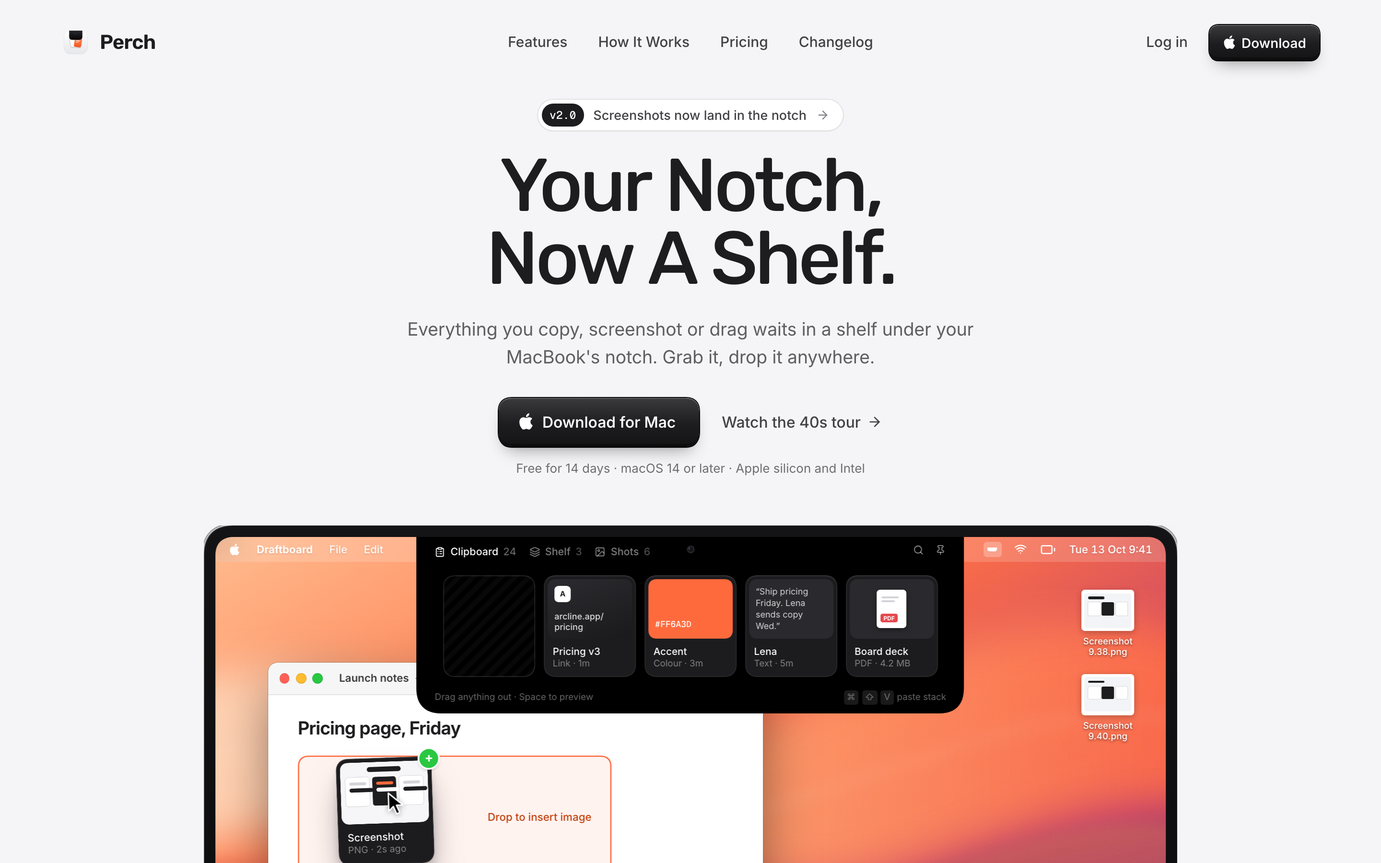
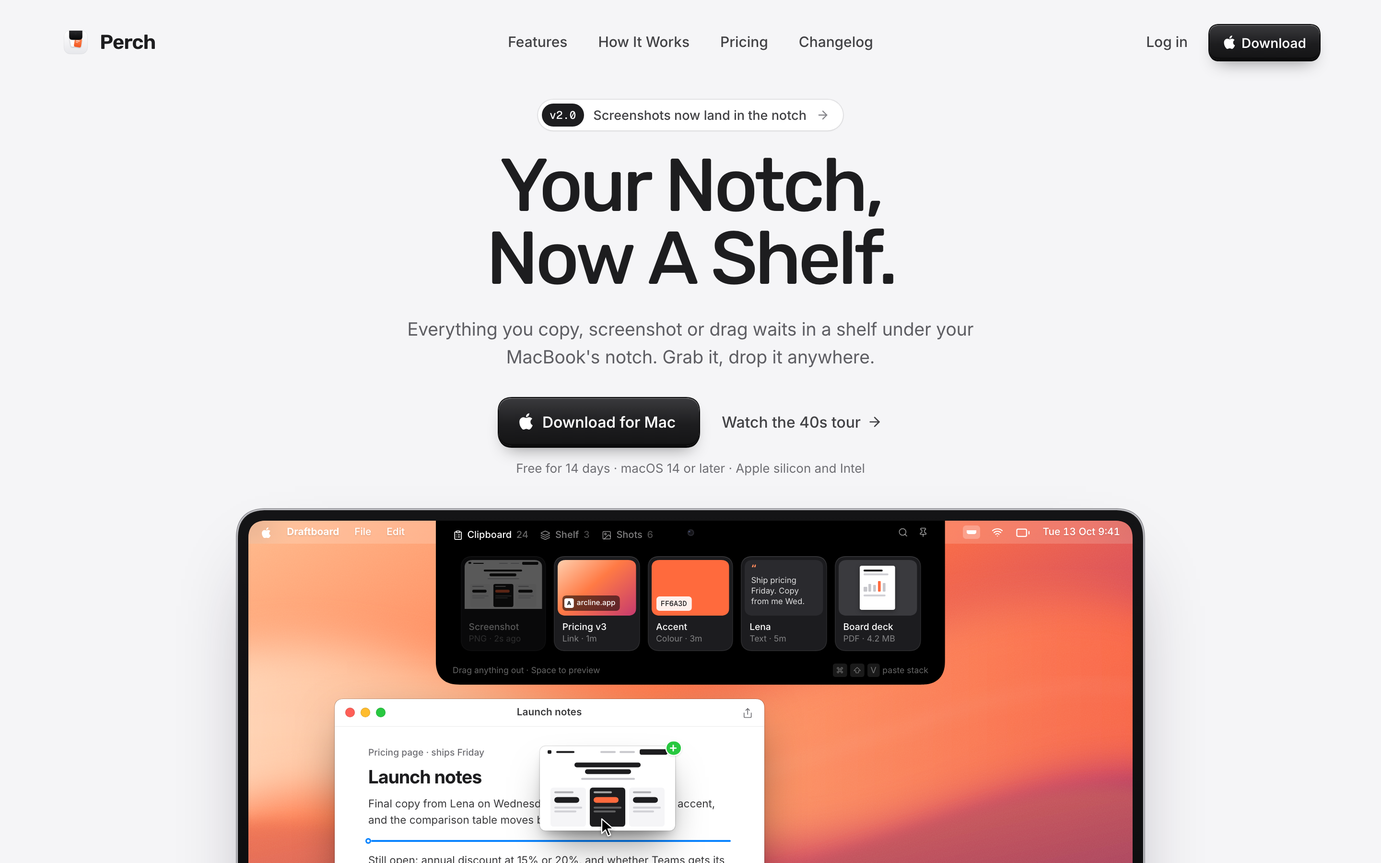
Perch round 2: native macOS drag (real drag image, insertion line, visible document)
Founder: 'the mouse drags sth box is stupidly designed... should be more polished'.
Recorded as a founder rule: interaction moments use native platform grammar, no
dashed drop boxes or placeholder copy. check.mjs 0 fail / 0 warn.

Changed region(s): [[0.125, 0.5911, 0.875, 1.0]]

diff --git a/work/perch/app/src/Mac.tsx b/work/perch/app/src/Mac.tsx
@@ -1,9 +1,10 @@
-// The hero object: one MacBook display, tilted back in 3D, with Perch living in the notch.
-// Story in one moment: the shelf grows out of the notch (Dynamic Island spring), five clips arrive, the screenshot lifts
-// out and is dragged into the open document, which lights its drop zone. Sample content; Draftboard is fictional.
+// The hero object: one MacBook display, straight-on, with Perch living in the notch.
+// One moment, drawn the way macOS draws it: the shelf springs out of the notch, the screenshot's card dims as its
+// translucent drag image lifts out, the cursor carries it into the document, and a system-blue insertion line opens
+// between two paragraphs. Then it drops in, and the loop restarts. Sample content; Draftboard is fictional.
 import { useEffect, useState } from 'react'
 import { AnimatePresence, motion, useReducedMotion } from 'motion/react'
-import { Battery, ClipboardList, Image, Layers, Pin, Search, Wifi } from 'lucide-react'
+import { Battery, ClipboardList, Image, Layers, Pin, Search, Share, Wifi } from 'lucide-react'
 import { siApple } from 'simple-icons'
 import Wallpaper from './Wallpaper'
 import { ease } from './motion'
@@ -11,45 +12,62 @@ import { ease } from './motion'
 const W = 1152, SHELF = 664, CARD = 112, GAP = 10
 const shelfX = (W - SHELF) / 2
 const cardX = (i: number) => (SHELF - (5 * CARD + 4 * GAP)) / 2 + i * (CARD + GAP)
-type Phase = 'closed' | 'open' | 'lift' | 'drag' | 'hover'
+const WIN = { x: 112, y: 232, w: 560 }
+type Phase = 'closed' | 'open' | 'lift' | 'drag' | 'hover' | 'drop'
 
 function Apple({ s = 14 }: { s?: number }) { return <svg viewBox="0 0 24 24" width={s} height={s} aria-hidden><path d={siApple.path} fill="currentColor" /></svg> }
 
-/* macOS arrow cursor: black body, white outline */
+/* macOS arrow cursor */
 function Cursor() {
-  return <svg width="22" height="30" viewBox="0 0 22 30" aria-hidden className="drop-shadow-[0_2px_3px_rgba(0,0,0,0.35)]"><path d="M2 2 L2 23 L7.4 17.8 L11 26.6 L14.6 25 L11 16.4 L18.6 16.4 Z" fill="#000" stroke="#fff" strokeWidth="1.6" strokeLinejoin="round" /></svg>
+  return <svg width="20" height="28" viewBox="0 0 22 30" aria-hidden className="drop-shadow-[0_1.5px_2px_rgba(0,0,0,0.35)]"><path d="M2 2 L2 23 L7.4 17.8 L11 26.6 L14.6 25 L11 16.4 L18.6 16.4 Z" fill="#000" stroke="#fff" strokeWidth="1.6" strokeLinejoin="round" /></svg>
+}
+
+/* the screenshot itself, drawn once at 176x110 and scaled wherever it appears (shelf card, drag image, inserted image) */
+function Shot() {
+  return (
+    <div className="relative h-[110px] w-[176px] overflow-hidden bg-white">
+      <div className="flex h-[14px] items-center gap-1.5 px-2.5"><span className="size-[5px] rounded-[2px] bg-[#1d1d1f]" /><span className="h-[3px] w-6 rounded-full bg-[#1d1d1f]" /><span className="ml-auto h-[3px] w-5 rounded-full bg-[#c7c7cc]" /><span className="h-[3px] w-5 rounded-full bg-[#c7c7cc]" /><span className="h-[7px] w-9 rounded-[3px] bg-[#1d1d1f]" /></div>
+      <div className="mt-[7px] flex flex-col items-center gap-[3px]"><span className="h-[6px] w-[86px] rounded-full bg-[#1d1d1f]" /><span className="h-[6px] w-[60px] rounded-full bg-[#1d1d1f]" /><span className="mt-[2px] h-[3px] w-[70px] rounded-full bg-[#c7c7cc]" /></div>
+      <div className="mt-[9px] grid grid-cols-3 gap-[5px] px-[14px]">
+        {[0, 1, 2].map((k) => (
+          <div key={k} className={`h-[52px] rounded-[5px] p-[5px] ${k === 1 ? 'bg-[#1d1d1f]' : 'bg-[#f5f5f7]'}`}>
+            <span className={`block h-[3px] w-6 rounded-full ${k === 1 ? 'bg-white/60' : 'bg-[#aeaeb2]'}`} />
+            <span className={`mt-[5px] block h-[7px] w-8 rounded-full ${k === 1 ? 'bg-[#ff6a3d]' : 'bg-[#1d1d1f]'}`} />
+            <span className={`mt-[6px] block h-[2px] w-9 rounded-full ${k === 1 ? 'bg-white/30' : 'bg-[#d1d1d6]'}`} /><span className={`mt-[3px] block h-[2px] w-7 rounded-full ${k === 1 ? 'bg-white/30' : 'bg-[#d1d1d6]'}`} />
+          </div>
+        ))}
+      </div>
+    </div>
+  )
 }
 
 function Thumb({ i }: { i: number }) {
-  if (i === 0) return ( // screenshot: a tiny pricing page
-    <div className="relative size-full overflow-hidden bg-[#f6f6f8] p-1.5">
-      <div className="mx-auto h-[5px] w-10 rounded-full bg-[#1d1d1f]" />
-      <div className="mt-1.5 grid grid-cols-3 gap-1">{[0, 1, 2].map((k) => <div key={k} className={`h-[34px] rounded-[4px] ${k === 1 ? 'bg-[#1d1d1f]' : 'bg-white shadow-[0_0_0_0.5px_rgba(0,0,0,0.12)]'}`}><div className={`mx-1 mt-1.5 h-[3px] w-5 rounded-full ${k === 1 ? 'bg-[#ff6a3d]' : 'bg-[#d4d4d8]'}`} /><div className={`mx-1 mt-1 h-[5px] w-7 rounded-full ${k === 1 ? 'bg-white' : 'bg-[#1d1d1f]'}`} /></div>)}</div>
+  if (i === 0) return <div className="origin-top-left" style={{ zoom: 102 / 176 }}><Shot /></div>
+  if (i === 1) return ( // link with its preview image
+    <div className="relative size-full bg-[linear-gradient(140deg,#ffcfae_0%,#ff7a45_45%,#c63a6e_100%)]">
+      <span className="absolute bottom-1.5 left-1.5 flex items-center gap-1 rounded-[6px] bg-black/55 py-[3px] pl-[3px] pr-1.5 text-[9.5px] font-[500] text-white backdrop-blur"><span className="grid size-3 place-items-center rounded-[3px] bg-white text-[7px] font-[800] text-[#1d1d1f]">A</span>arcline.app</span>
     </div>
   )
-  if (i === 1) return ( // link
-    <div className="flex size-full flex-col justify-between bg-[linear-gradient(160deg,#2c2c30,#1a1a1d)] p-2">
-      <span className="grid size-5 place-items-center rounded-[6px] bg-white text-[9px] font-[700] text-[#1d1d1f]">A</span>
-      <span className="text-[10.5px] font-[500] leading-[13px] text-white/85">arcline.app/<br />pricing</span>
-    </div>
-  )
-  if (i === 2) return <div className="flex size-full items-end bg-[#ff6a3d] p-2"><span className="font-mono text-[10.5px] font-[500] text-white">#FF6A3D</span></div>
-  if (i === 3) return <div className="size-full bg-[#2a2a2e] p-2 text-[10.5px] leading-[14px] text-white/80">“Ship pricing Friday. Lena sends copy Wed.”</div>
-  return ( // file
-    <div className="grid size-full place-items-center bg-[#2a2a2e]">
-      <span className="relative h-[46px] w-[36px] rounded-[5px] bg-white shadow-[0_2px_6px_rgba(0,0,0,0.35)]"><span className="absolute bottom-1.5 left-1 rounded-[3px] bg-[#e5484d] px-1 text-[7px] font-[700] text-white">PDF</span><span className="absolute left-1.5 top-2 h-[2px] w-5 rounded-full bg-[#d4d4d8]" /><span className="absolute left-1.5 top-[13px] h-[2px] w-4 rounded-full bg-[#d4d4d8]" /></span>
+  if (i === 2) return <div className="relative size-full bg-[#ff6a3d]"><span className="absolute bottom-1.5 left-1.5 rounded-[5px] bg-white/90 px-1.5 py-[2px] font-mono text-[9.5px] font-[500] text-[#1d1d1f]">FF6A3D</span></div>
+  if (i === 3) return <div className="size-full bg-[#2a2a2e] px-2 py-1.5"><span className="font-display block text-[18px] leading-[14px] text-[#ff8a5c]">“</span><span className="block text-[10.5px] leading-[13.5px] text-white/85">Ship pricing Friday. Copy from me Wed.</span></div>
+  return ( // pdf first page
+    <div className="grid size-full place-items-center bg-[#3a3a3e]">
+      <span className="relative block h-[58px] w-[46px] rounded-[3px] bg-white p-[5px] shadow-[0_2px_6px_rgba(0,0,0,0.35)]">
+        <span className="block h-[3px] w-6 rounded-full bg-[#1d1d1f]" /><span className="mt-[3px] block h-[2px] w-8 rounded-full bg-[#d1d1d6]" />
+        <span className="mt-[5px] flex h-[16px] items-end gap-[2px]">{[6, 10, 8, 14, 11].map((h, k) => <span key={k} className={`w-[4px] rounded-[1px] ${k === 3 ? 'bg-[#ff6a3d]' : 'bg-[#c7c7cc]'}`} style={{ height: h }} />)}</span>
+        <span className="mt-[4px] block h-[2px] w-7 rounded-full bg-[#d1d1d6]" />
+      </span>
     </div>
   )
 }
 const META = [['Screenshot', 'PNG · 2s ago'], ['Pricing v3', 'Link · 1m'], ['Accent', 'Colour · 3m'], ['Lena', 'Text · 5m'], ['Board deck', 'PDF · 4.2 MB']]
 
-function Card({ i, ghost }: { i: number; ghost?: boolean }) {
-  if (ghost) return <div className="h-[124px] w-[112px] rounded-[16px] shadow-[inset_0_0_0_1px_rgba(255,255,255,0.14)] [background:repeating-linear-gradient(135deg,rgba(255,255,255,0.03)_0_6px,transparent_6px_12px)]" />
+function Card({ i, dim }: { i: number; dim?: boolean }) {
   return (
-    <div className="h-[124px] w-[112px] rounded-[16px] bg-[#1c1c1f] p-[5px] shadow-[inset_0_0_0_1px_rgba(255,255,255,0.07),inset_0_1px_0_rgba(255,255,255,0.08)]">
+    <motion.div animate={{ opacity: dim ? 0.35 : 1 }} transition={{ duration: 0.25 }} className="h-[124px] w-[112px] rounded-[16px] bg-[#1c1c1f] p-[5px] shadow-[inset_0_0_0_1px_rgba(255,255,255,0.07),inset_0_1px_0_rgba(255,255,255,0.08)]">
       <div className="h-[72px] overflow-hidden rounded-[11px]"><Thumb i={i} /></div>
       <div className="px-1.5 pt-2"><div className="truncate text-[12px] font-[500] leading-[15px] text-white">{META[i][0]}</div><div className="truncate text-[11px] leading-[14px] text-white/45">{META[i][1]}</div></div>
-    </div>
+    </motion.div>
   )
 }
 
@@ -58,103 +76,112 @@ export default function Mac({ at }: { at: number }) {
   const [phase, setPhase] = useState<Phase>(still ? 'hover' : 'closed')
   useEffect(() => {
     if (still) return
-    const steps: [Phase, number][] = [['open', at + 0.9], ['lift', at + 2.5], ['drag', at + 2.85], ['hover', at + 3.75]]
-    const ids = steps.map(([p, t]) => window.setTimeout(() => setPhase(p), t * 1000))
+    const ids: number[] = []
+    const run = (t0: number, first: boolean) => {
+      const steps: [Phase, number][] = [...(first ? [['open', t0 + 0.9] as [Phase, number]] : []), ['lift', t0 + 2.5], ['drag', t0 + 2.8], ['hover', t0 + 3.7], ['drop', t0 + 5.6]]
+      ids.push(...steps.map(([p, t]) => window.setTimeout(() => setPhase(p), t * 1000)))
+      ids.push(window.setTimeout(() => { setPhase('open'); run(-1.6, false) }, (t0 + 8.4) * 1000))
+    }
+    run(at, true)
     return () => ids.forEach(clearTimeout)
   }, [at, still])
   const open = phase !== 'closed'
-  const lifted = phase === 'lift' || phase === 'drag' || phase === 'hover'
-  const cardHome = { x: shelfX + cardX(0), y: 46 }
-  const dropAt = { x: 150, y: 270 }
+  const carrying = phase === 'lift' || phase === 'drag' || phase === 'hover'
+  const home = { x: shelfX + cardX(0) + 5, y: 51 }
+  const over = { x: WIN.x + 268, y: WIN.y + 62 }
 
   return (
-    <div className="relative" style={{ perspective: 2400, perspectiveOrigin: '50% 0%' }}>
-      <motion.div style={{ transformOrigin: '50% 0%', transformStyle: 'preserve-3d' }}
-        initial={still ? false : { rotateX: 14, y: 90, opacity: 0 }} animate={{ rotateX: 0, y: 0, opacity: 1 }}
-        transition={{ rotateX: { delay: at, duration: 1.6, ease: ease.reveal }, y: { delay: at, duration: 1.6, ease: ease.reveal }, opacity: { delay: at, duration: 0.6 } }}>
-        {/* lid: space-black bezel, aluminium rim, one soft floor shadow */}
-        <div className="relative w-[1180px] rounded-[38px] bg-[linear-gradient(180deg,#141416,#0a0a0b)] p-[14px] shadow-[0_0_0_1.5px_#c3c3c8,0_0_0_2.5px_#8e8e93,inset_0_0_0_1px_rgba(255,255,255,0.06),0_50px_100px_-40px_rgba(30,20,40,0.45)]">
-          <div className="relative h-[740px] overflow-hidden rounded-[24px] bg-black">
-            <Wallpaper />
+    <motion.div initial={still ? false : { rotateX: 14, y: 80, opacity: 0 }} animate={{ rotateX: 0, y: 0, opacity: 1 }}
+      style={{ transformOrigin: '50% 0%', transformPerspective: 2400 }}
+      transition={{ rotateX: { delay: at, duration: 1.5, ease: ease.reveal }, y: { delay: at, duration: 1.5, ease: ease.reveal }, opacity: { delay: at, duration: 0.6 } }}>
+      {/* lid: space-black bezel, aluminium rim, one soft floor shadow */}
+      <div className="relative w-[1180px] rounded-[38px] bg-[linear-gradient(180deg,#141416,#0a0a0b)] p-[14px] shadow-[0_0_0_1.5px_#c3c3c8,0_0_0_2.5px_#8e8e93,inset_0_0_0_1px_rgba(255,255,255,0.06),0_50px_100px_-40px_rgba(30,20,40,0.45)]">
+        <div className="relative h-[740px] overflow-hidden rounded-[24px] bg-black">
+          <Wallpaper />
 
-            {/* menu bar */}
-            <div className="absolute inset-x-0 top-0 flex h-[30px] items-center gap-5 bg-white/[0.16] px-4 text-[13px] font-[500] text-white backdrop-blur-xl" style={{ textShadow: '0 1px 2px rgba(0,0,0,0.12)' }}>
-              <Apple /><span className="font-[650]">Draftboard</span>
-              {['File', 'Edit'].map((m) => <span key={m} className="text-white/95">{m}</span>)}
-              <span className="ml-auto flex items-center gap-4">
-                <span className="grid h-[18px] w-[22px] place-items-center rounded-[5px] bg-white/25"><span className="h-[5px] w-[12px] rounded-b-[3px] bg-white" /></span>
-                <Wifi size={15} strokeWidth={2.2} /><Battery size={19} strokeWidth={1.8} /><span className="tnum">Tue 13 Oct  9:41</span>
-              </span>
+          {/* menu bar */}
+          <div className="absolute inset-x-0 top-0 flex h-[30px] items-center gap-5 bg-white/[0.16] px-4 text-[13px] font-[500] text-white backdrop-blur-xl" style={{ textShadow: '0 1px 2px rgba(0,0,0,0.12)' }}>
+            <Apple /><span className="font-[650]">Draftboard</span><span>File</span><span>Edit</span>
+            <span className="ml-auto flex items-center gap-4">
+              <span className="grid h-[18px] w-[22px] place-items-center rounded-[5px] bg-white/25"><span className="h-[5px] w-[12px] rounded-b-[3px] bg-white" /></span>
+              <Wifi size={15} strokeWidth={2.2} /><Battery size={19} strokeWidth={1.8} /><span className="tnum">Tue 13 Oct  9:41</span>
+            </span>
+          </div>
+
+          {/* the document: fully visible under the shelf */}
+          <div className="absolute overflow-hidden rounded-[12px] bg-white shadow-[0_0_0_0.5px_rgba(0,0,0,0.28),0_24px_60px_-16px_rgba(0,0,0,0.5),0_8px_16px_-8px_rgba(0,0,0,0.2)]" style={{ left: WIN.x, top: WIN.y, width: WIN.w, height: 440 }}>
+            <div className="relative flex h-9 items-center px-3.5 shadow-[inset_0_-1px_0_rgba(0,0,0,0.06)]">
+              <span className="flex gap-2">{['#ff5f57', '#febc2e', '#28c840'].map((c) => <span key={c} className="size-3 rounded-full shadow-[inset_0_0_0_0.5px_rgba(0,0,0,0.18)]" style={{ background: c }} />)}</span>
+              <span className="absolute left-1/2 -translate-x-1/2 text-[13px] font-[600] text-[#3a3a3c]">Launch notes</span>
+              <Share size={14} strokeWidth={1.8} className="ml-auto text-[#6e6e73]" />
             </div>
-
-            {/* desktop files on the right edge (what Perch replaces) */}
-            <div className="absolute right-7 top-[64px] flex flex-col items-center gap-5">
-              {['Screenshot 9.38', 'Screenshot 9.40'].map((n) => (
-                <div key={n} className="flex w-[84px] flex-col items-center gap-1.5">
-                  <div className="h-[50px] w-[64px] rounded-[5px] bg-white p-1 shadow-[0_2px_8px_rgba(0,0,0,0.25)]"><div className="size-full rounded-[3px] bg-[#f3f4f7] p-1"><div className="h-[3px] w-5 rounded-full bg-[#1d1d1f]" /><div className="mt-1 grid grid-cols-3 gap-[2px]"><div className="h-4 rounded-[2px] bg-white shadow-[0_0_0_0.5px_rgba(0,0,0,0.15)]" /><div className="h-4 rounded-[2px] bg-[#1d1d1f]" /><div className="h-4 rounded-[2px] bg-white shadow-[0_0_0_0.5px_rgba(0,0,0,0.15)]" /></div></div></div>
-                  <span className="rounded-[4px] px-1 text-center text-[11px] font-[500] leading-[13px] text-white" style={{ textShadow: '0 1px 3px rgba(0,0,0,0.5)' }}>{n}.png</span>
-                </div>
-              ))}
-            </div>
-
-            {/* the document window: drop target */}
-            <div className="absolute left-[64px] top-[152px] h-[520px] w-[600px] overflow-hidden rounded-[14px] bg-white shadow-[0_0_0_0.5px_rgba(0,0,0,0.3),0_22px_70px_-10px_rgba(0,0,0,0.55)]">
-              <div className="flex h-[40px] items-center gap-2 border-b border-black/[0.07] bg-[#f6f6f7] px-3.5">
-                <span className="size-3 rounded-full bg-[#ff5f57] shadow-[inset_0_0_0_0.5px_rgba(0,0,0,0.15)]" /><span className="size-3 rounded-full bg-[#febc2e] shadow-[inset_0_0_0_0.5px_rgba(0,0,0,0.15)]" /><span className="size-3 rounded-full bg-[#28c840] shadow-[inset_0_0_0_0.5px_rgba(0,0,0,0.15)]" />
-                <span className="ml-3 text-[13px] font-[600] text-[#3a3a3c]">Launch notes</span><span className="text-[13px] text-[#6e6e73]">— Edited</span>
+            <div className="px-11 pt-[26px]">
+              <div className="text-[12px] font-[500] text-[#6e6e73]">Pricing page · ships Friday</div>
+              <div className="mt-1.5 text-[24px] font-[700] leading-[30px] tracking-[-0.02em] text-[#1d1d1f]">Launch notes</div>
+              <p className="mt-2.5 text-[14px] leading-[22px] text-[#3a3a3c]">Final copy from Lena on Wednesday. The hero uses the new accent, and the comparison table moves below the fold.</p>
+              {/* insertion point: a system-blue line opens where the image will land, then the image drops in */}
+              <div className="relative my-3.5">
+                <AnimatePresence initial={false} mode="popLayout">
+                  {phase === 'drop' ? (
+                    <motion.div key="img" initial={{ height: 0, opacity: 0 }} animate={{ height: 176, opacity: 1 }} transition={{ height: { type: 'spring', stiffness: 300, damping: 30 }, opacity: { duration: 0.2 } }} className="overflow-hidden">
+                      <div className="h-[176px] w-[282px] overflow-hidden rounded-[8px] shadow-[0_0_0_1px_rgba(0,0,0,0.08)]"><div className="origin-top-left" style={{ zoom: 282 / 176 }}><Shot /></div></div>
+                    </motion.div>
+                  ) : (
+                    <motion.div key="line" className="flex h-[2px] items-center" initial={{ opacity: 0 }} animate={{ opacity: phase === 'hover' ? 1 : 0, scaleX: phase === 'hover' ? 1 : 0.6 }} style={{ originX: 0 }} transition={{ duration: 0.2 }}>
+                      <span className="-ml-[4px] size-[8px] shrink-0 rounded-full bg-white shadow-[inset_0_0_0_2px_#0a84ff]" /><span className="h-[2px] flex-1 rounded-full bg-[#0a84ff]" />
+                    </motion.div>
+                  )}
+                </AnimatePresence>
               </div>
-              <div className="px-9 pt-6">
-                <div className="text-[22px] font-[650] tracking-[-0.02em] text-[#1d1d1f]">Pricing page, Friday</div>
-                <motion.div animate={{ backgroundColor: phase === 'hover' ? 'rgba(255,106,61,0.08)' : 'rgba(0,0,0,0.025)', boxShadow: phase === 'hover' ? 'inset 0 0 0 1.5px #ff6a3d' : 'inset 0 0 0 1px rgba(0,0,0,0.08)' }} transition={{ duration: 0.25 }}
-                  className="mt-4 flex h-[150px] w-[380px] items-center justify-end rounded-[14px] pr-6">
-                  <span className={`text-[13px] font-[500] ${phase === 'hover' ? 'text-[#c2410c]' : 'text-[#6e6e73]'}`}>{phase === 'hover' ? 'Drop to insert image' : 'Hero screenshot'}</span>
-                </motion.div>
-                <p className="mt-4 max-w-[420px] text-[14px] leading-[22px] text-[#48484a]">Final copy from Lena on Wednesday. Hero uses the new accent; the comparison table moves below the fold.</p>
-              </div>
+              <p className="text-[14px] leading-[22px] text-[#3a3a3c]">Still open: annual discount at 15% or 20%, and whether Teams gets its own column.</p>
             </div>
+          </div>
 
-            {/* the shelf: grows out of the notch */}
-            <motion.div className="absolute top-0 z-20 overflow-hidden bg-black" style={{ left: '50%', x: '-50%' }}
-              initial={false} animate={open ? { width: SHELF, height: 214, borderBottomLeftRadius: 32, borderBottomRightRadius: 32 } : { width: 196, height: 32, borderBottomLeftRadius: 13, borderBottomRightRadius: 13 }}
-              transition={{ type: 'spring', stiffness: 230, damping: 26, mass: 1 }}>
-              <span className="absolute left-1/2 top-[11px] size-[9px] -translate-x-1/2 rounded-full bg-[#141418] shadow-[inset_0_0_0_1.5px_#26262c]"><span className="absolute left-[2px] top-[2px] size-[2px] rounded-full bg-[#4b5a8a]" /></span>
-              <AnimatePresence>
-                {open && (
-                  <motion.div key="in" className="absolute inset-0" initial={{ opacity: 0, filter: 'blur(6px)' }} animate={{ opacity: 1, filter: 'blur(0px)' }} transition={{ delay: 0.18, duration: 0.4 }}>
-                    <div className="absolute left-[22px] top-[9px] flex items-center gap-4 text-[12.5px] font-[500]">
-                      <span className="flex items-center gap-1.5 text-white"><ClipboardList size={13} strokeWidth={2} />Clipboard <span className="text-white/40">24</span></span>
-                      <span className="flex items-center gap-1.5 text-white/50"><Layers size={13} strokeWidth={2} />Shelf <span className="text-white/30">3</span></span>
-                      <span className="flex items-center gap-1.5 text-white/50"><Image size={13} strokeWidth={2} />Shots <span className="text-white/30">6</span></span>
-                    </div>
-                    <div className="absolute right-[22px] top-[9px] flex items-center gap-3.5 text-white/55"><Search size={13} strokeWidth={2} /><Pin size={13} strokeWidth={2} /></div>
-                    {[0, 1, 2, 3, 4].map((i) => (
-                      <motion.div key={i} className="absolute top-[46px]" style={{ left: cardX(i) }} initial={{ opacity: 0, y: -14, scale: 0.92 }} animate={{ opacity: 1, y: 0, scale: 1 }} transition={{ delay: 0.28 + i * 0.06, type: 'spring', stiffness: 380, damping: 30 }}>
-                        <Card i={i} ghost={i === 0 && lifted} />
-                      </motion.div>
-                    ))}
-                    <div className="absolute inset-x-[22px] bottom-[11px] flex items-center justify-between text-[11px] text-white/40">
-                      <span>Drag anything out · Space to preview</span><span className="flex items-center gap-1"><kbd className="rounded-[4px] bg-white/10 px-1 font-sans">⌘</kbd><kbd className="rounded-[4px] bg-white/10 px-1 font-sans">⇧</kbd><kbd className="rounded-[4px] bg-white/10 px-1 font-sans">V</kbd>paste stack</span>
-                    </div>
-                  </motion.div>
-                )}
-              </AnimatePresence>
-            </motion.div>
-
-            {/* the dragged clip + cursor */}
+          {/* the shelf: grows out of the notch */}
+          <motion.div className="absolute top-0 z-20 overflow-hidden bg-black" style={{ left: '50%', x: '-50%' }}
+            initial={false} animate={open ? { width: SHELF, height: 214, borderBottomLeftRadius: 32, borderBottomRightRadius: 32 } : { width: 196, height: 32, borderBottomLeftRadius: 13, borderBottomRightRadius: 13 }}
+            transition={{ type: 'spring', stiffness: 230, damping: 26, mass: 1 }}>
+            <span className="absolute left-1/2 top-[11px] size-[9px] -translate-x-1/2 rounded-full bg-[#141418] shadow-[inset_0_0_0_1.5px_#26262c]"><span className="absolute left-[2px] top-[2px] size-[2px] rounded-full bg-[#4b5a8a]" /></span>
             <AnimatePresence>
-              {lifted && (
-                <motion.div key="drag" className="absolute z-30" initial={{ x: cardHome.x, y: cardHome.y, rotate: 0, scale: 1 }}
-                  animate={phase === 'lift' ? { x: cardHome.x + 4, y: cardHome.y + 18, rotate: -1, scale: 1.06 } : { x: dropAt.x, y: dropAt.y, rotate: -2, scale: 1.04 }}
-                  transition={phase === 'lift' ? { duration: 0.35, ease: ease.outQuint } : { duration: 0.9, ease: [0.45, 0, 0.2, 1] }}>
-                  <div className="shadow-[0_24px_40px_-12px_rgba(0,0,0,0.55),0_8px_14px_-6px_rgba(0,0,0,0.35)] rounded-[16px]"><Card i={0} /></div>
-                  <span className="absolute -right-2 -top-2 grid size-[22px] place-items-center rounded-full bg-[#28c840] text-[15px] font-[700] leading-none text-white shadow-[0_0_0_2px_#fff,0_2px_4px_rgba(0,0,0,0.3)]">+</span>
-                  <span className="absolute left-[58px] top-[40px]"><Cursor /></span>
+              {open && (
+                <motion.div key="in" className="absolute inset-0" initial={{ opacity: 0, filter: 'blur(6px)' }} animate={{ opacity: 1, filter: 'blur(0px)' }} transition={{ delay: 0.18, duration: 0.4 }}>
+                  <div className="absolute left-[22px] top-[9px] flex items-center gap-4 text-[12.5px] font-[500]">
+                    <span className="flex items-center gap-1.5 text-white"><ClipboardList size={13} strokeWidth={2} />Clipboard <span className="text-white/40">24</span></span>
+                    <span className="flex items-center gap-1.5 text-white/50"><Layers size={13} strokeWidth={2} />Shelf <span className="text-white/30">3</span></span>
+                    <span className="flex items-center gap-1.5 text-white/50"><Image size={13} strokeWidth={2} />Shots <span className="text-white/30">6</span></span>
+                  </div>
+                  <div className="absolute right-[22px] top-[9px] flex items-center gap-3.5 text-white/55"><Search size={13} strokeWidth={2} /><Pin size={13} strokeWidth={2} /></div>
+                  {[0, 1, 2, 3, 4].map((i) => (
+                    <motion.div key={i} className="absolute top-[46px]" style={{ left: cardX(i) }} initial={{ opacity: 0, y: -14, scale: 0.92 }} animate={{ opacity: 1, y: 0, scale: 1 }} transition={{ delay: 0.28 + i * 0.06, type: 'spring', stiffness: 380, damping: 30 }}>
+                      <Card i={i} dim={i === 0 && carrying} />
+                    </motion.div>
+                  ))}
+                  <div className="absolute inset-x-[22px] bottom-[11px] flex items-center justify-between text-[11px] text-white/40">
+                    <span>Drag anything out · Space to preview</span><span className="flex items-center gap-1"><kbd className="rounded-[4px] bg-white/10 px-1 font-sans">⌘</kbd><kbd className="rounded-[4px] bg-white/10 px-1 font-sans">⇧</kbd><kbd className="rounded-[4px] bg-white/10 px-1 font-sans">V</kbd>paste stack</span>
+                  </div>
                 </motion.div>
               )}
             </AnimatePresence>
-          </div>
+          </motion.div>
+
+          {/* the drag image: the screenshot itself, translucent, carried by the cursor at its lower edge */}
+          <AnimatePresence>
+            {carrying && (
+              <motion.div key="drag" className="absolute z-30" initial={{ x: home.x, y: home.y, scale: 0.58, opacity: 0 }}
+                animate={phase === 'lift' ? { x: home.x - 6, y: home.y + 26, scale: 0.86, opacity: 1 } : { x: over.x, y: over.y, scale: 1, opacity: 1 }}
+                exit={{ opacity: 0, scale: 0.96, transition: { duration: 0.18 } }}
+                style={{ originX: 0, originY: 0 }}
+                transition={phase === 'lift' ? { duration: 0.3, ease: ease.outQuint } : { duration: 0.9, ease: [0.45, 0, 0.2, 1] }}>
+                <motion.div animate={{ rotate: phase === 'hover' ? 0 : -1.5 }} transition={{ duration: 0.4 }} className="relative">
+                  <div className="overflow-hidden rounded-[9px] shadow-[0_0_0_1px_rgba(0,0,0,0.1),0_26px_48px_-14px_rgba(0,0,0,0.5),0_8px_14px_-6px_rgba(0,0,0,0.28)]"><Shot /></div>
+                  <span className="absolute -right-[7px] -top-[7px] grid size-[18px] place-items-center rounded-full bg-[#28c840] shadow-[0_0_0_1.5px_#fff,0_1px_3px_rgba(0,0,0,0.3)]"><svg width="10" height="10" viewBox="0 0 10 10" aria-hidden><path d="M5 1.5v7M1.5 5h7" stroke="#fff" strokeWidth="1.8" strokeLinecap="round" /></svg></span>
+                  <span className="absolute left-[78px] top-[92px]"><Cursor /></span>
+                </motion.div>
+              </motion.div>
+            )}
+          </AnimatePresence>
         </div>
-      </motion.div>
-    </div>
+      </div>
+    </motion.div>
   )
 }

diff --git a/work/perch/app/src/App.tsx b/work/perch/app/src/App.tsx
@@ -57,8 +57,8 @@ export default function App() {
           <Reveal at={T_CTA + STAGGER} className="mt-3.5 text-[13px] text-[#6e6e73]">Free for 14 days · macOS 14 or later · Apple silicon and Intel</Reveal>
 
         {/* the display: ≥64px under the CTAs, bleeds off the fold */}
-        <div role="img" aria-label="Perch's shelf open under a MacBook notch, a screenshot being dragged into a document (sample content)" className="absolute left-1/2 top-[548px] z-0 -translate-x-1/2 text-left" style={{ maskImage: 'linear-gradient(180deg,#000 62%,transparent 98%)', WebkitMaskImage: 'linear-gradient(180deg,#000 62%,transparent 98%)' }}>
-          <div style={{ zoom: 0.86 }}><Mac at={T.mac} /></div>
+        <div role="img" aria-label="Perch's shelf open under a MacBook notch, a screenshot being dragged into a document (sample content)" className="absolute left-1/2 top-[532px] z-0 -translate-x-1/2 text-left">
+          <div style={{ zoom: 0.8 }}><Mac at={T.mac} /></div>
         </div>
         </main>
       </div>

diff --git a/knowledge/founder/founder-taste.md b/knowledge/founder/founder-taste.md
@@ -344,3 +344,6 @@ Every rule here is a direct founder verdict on real output. It outranks books, w
 - **RULE** [founder] Product frames sit straight-on at rest: no perspective tilt (rotateX/rotateY) on a laptop, browser or app window in the hero. A tilt may only be used as an entrance that settles to 0°. Dragged or floating objects inside the product tilt at most 1-2°.
   **Why** Founder on Perch v1 (MacBook display at rotateX 15°, sides slanting inward ~45px across the fold): "the visual representation is a bit tilted and off bro wtf fix that".
   **Applies to** all product heroes; overrides the variety picker's `tilted-3d` layout (read it as "3D entrance, flat rest"). **Check** computed transform of the product frame at rest is identity (no rotateX/Y); left and right edges are vertical in the fold screenshot. **Source** founder, 2026-10-13, Perch
+- **RULE** [founder] Interaction moments inside a product visual (drag, drop, select, hover) are drawn in the platform's native grammar and polished to the same level as the visual itself: the drag image is the real item (a thumbnail of the actual content, opaque, soft lift shadow, a small copy badge, the cursor gripping its lower edge), the source slot dims, and the target shows a native indicator (an insertion line between paragraphs, a highlighted row), never a dashed placeholder box with "Drop here" text or a dark UI card dragged across a light app. Windows the moment lands in are fully visible and carry real content, not half-hidden under another layer.
+  **Why** Founder on Perch v1 (a dark shelf card with a big green badge dragged into a pink dashed "Drop to insert image" box in a near-empty, half-covered window): "where in the visual the mouse drags sth box is stupidly designed as well as what's going on in the visual, that should be more polished as the visual itself".
+  **Applies to** product heroes and product visuals with a demonstrated action. **Check** crop the moment at 2x: would it pass as a real macOS/iOS/web screenshot? No dashed drop boxes, no placeholder copy, no overlapping half-hidden windows. **Source** founder, 2026-10-13, Perch

diff --git a/work/perch/DIRECTION.md b/work/perch/DIRECTION.md
@@ -29,3 +29,9 @@ The product lives where the camera is: a black squircle shelf grows out of the n
 Title Case h1, subtitle 2 lines, ≥64px CTA to product (100px), one product view, version chip says something specific, Lucide icons, squircles, logo drawn as an object (app icon: notch tab with clips), screenshots only.
 ## Check
 check.mjs: 0 fail, 0 warn, 33 pass. ledger similar: ok.
+
+## Round 2 (founder: "the mouse drags sth box is stupidly designed... should be more polished as the visual itself")
+The drag is rebuilt in macOS's own drag grammar:
+- The drag image is the screenshot itself (opaque, lift shadow, small green + badge, cursor at its lower edge), and the source card dims.
+- The document is fully visible below the shelf, with real copy and a system-blue insertion line between paragraphs. On drop, the image springs in, then the loop restarts.
+- Removed the striped ghost slot, the dashed drop box and the desktop icons. The display is 0.8x and sits 66px under the CTAs, so the whole moment fits in the fold.
